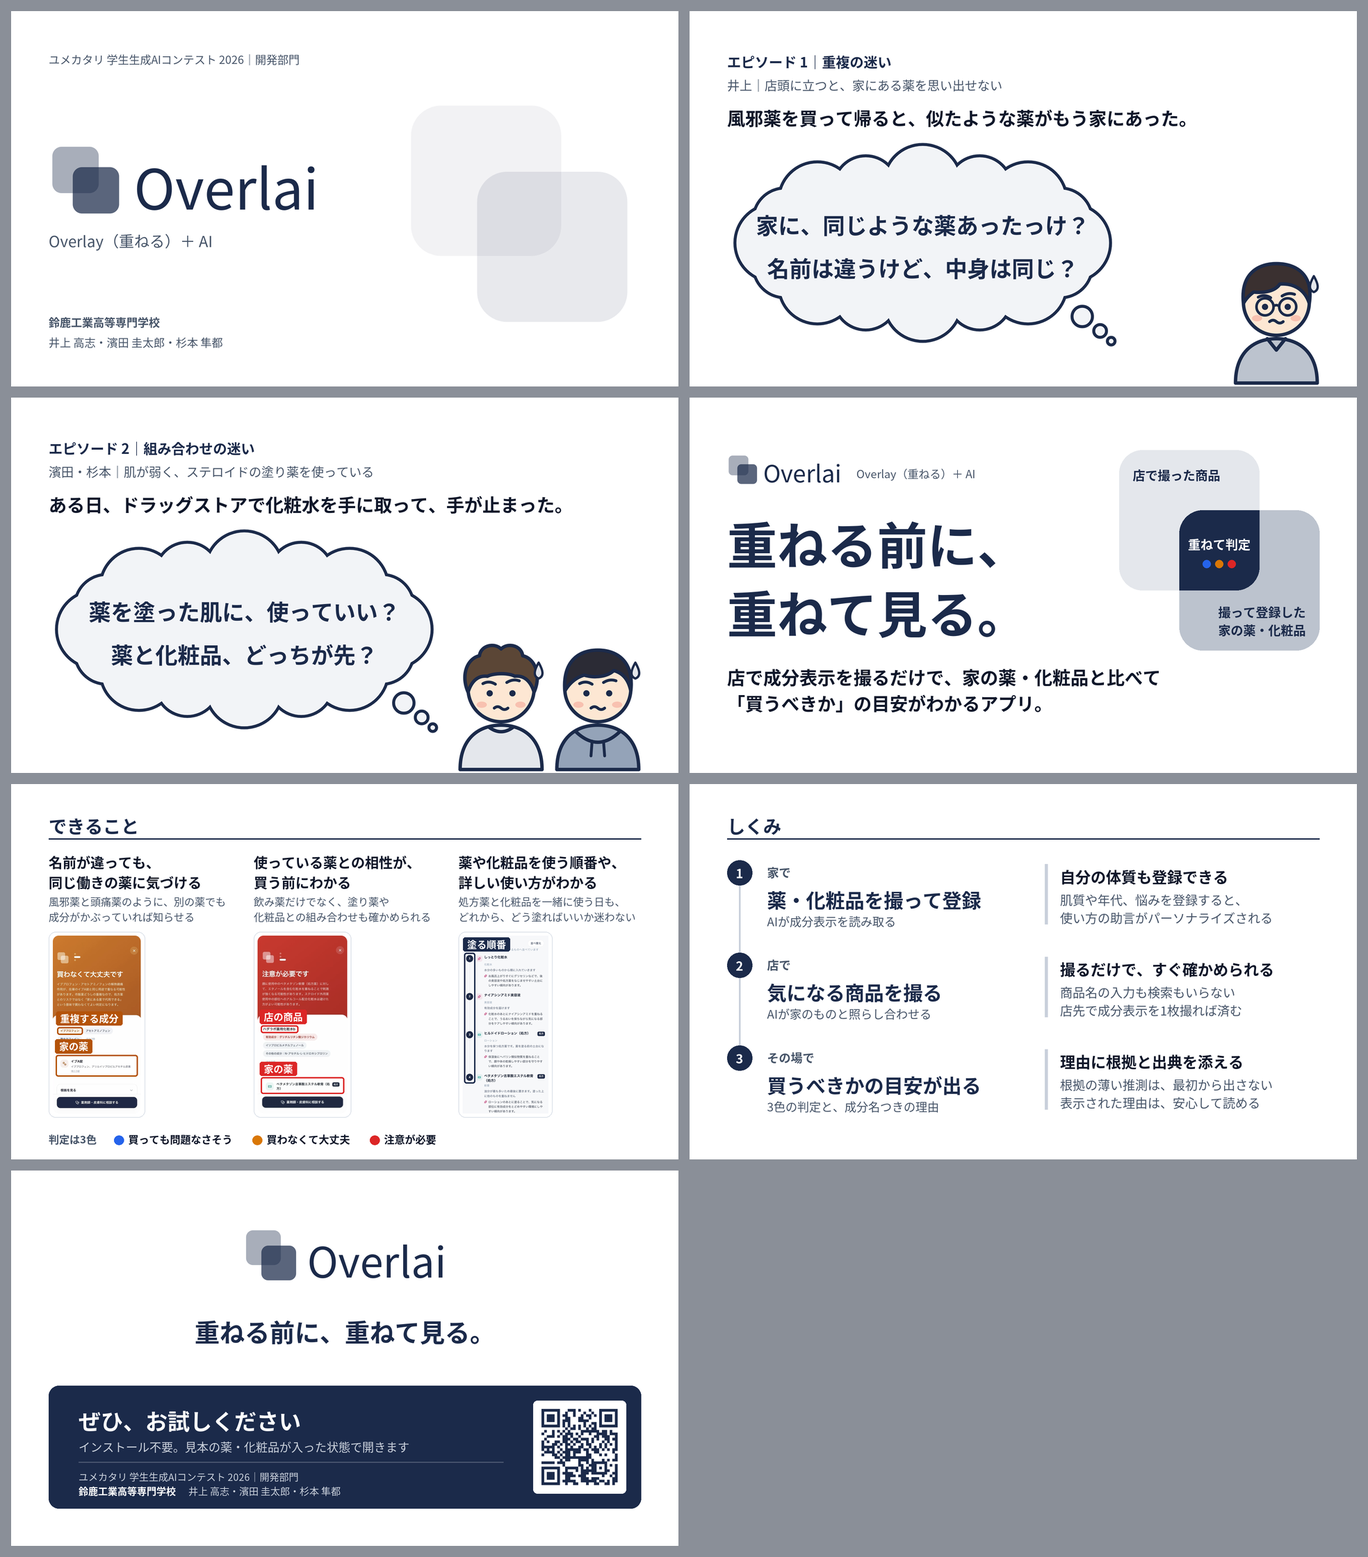
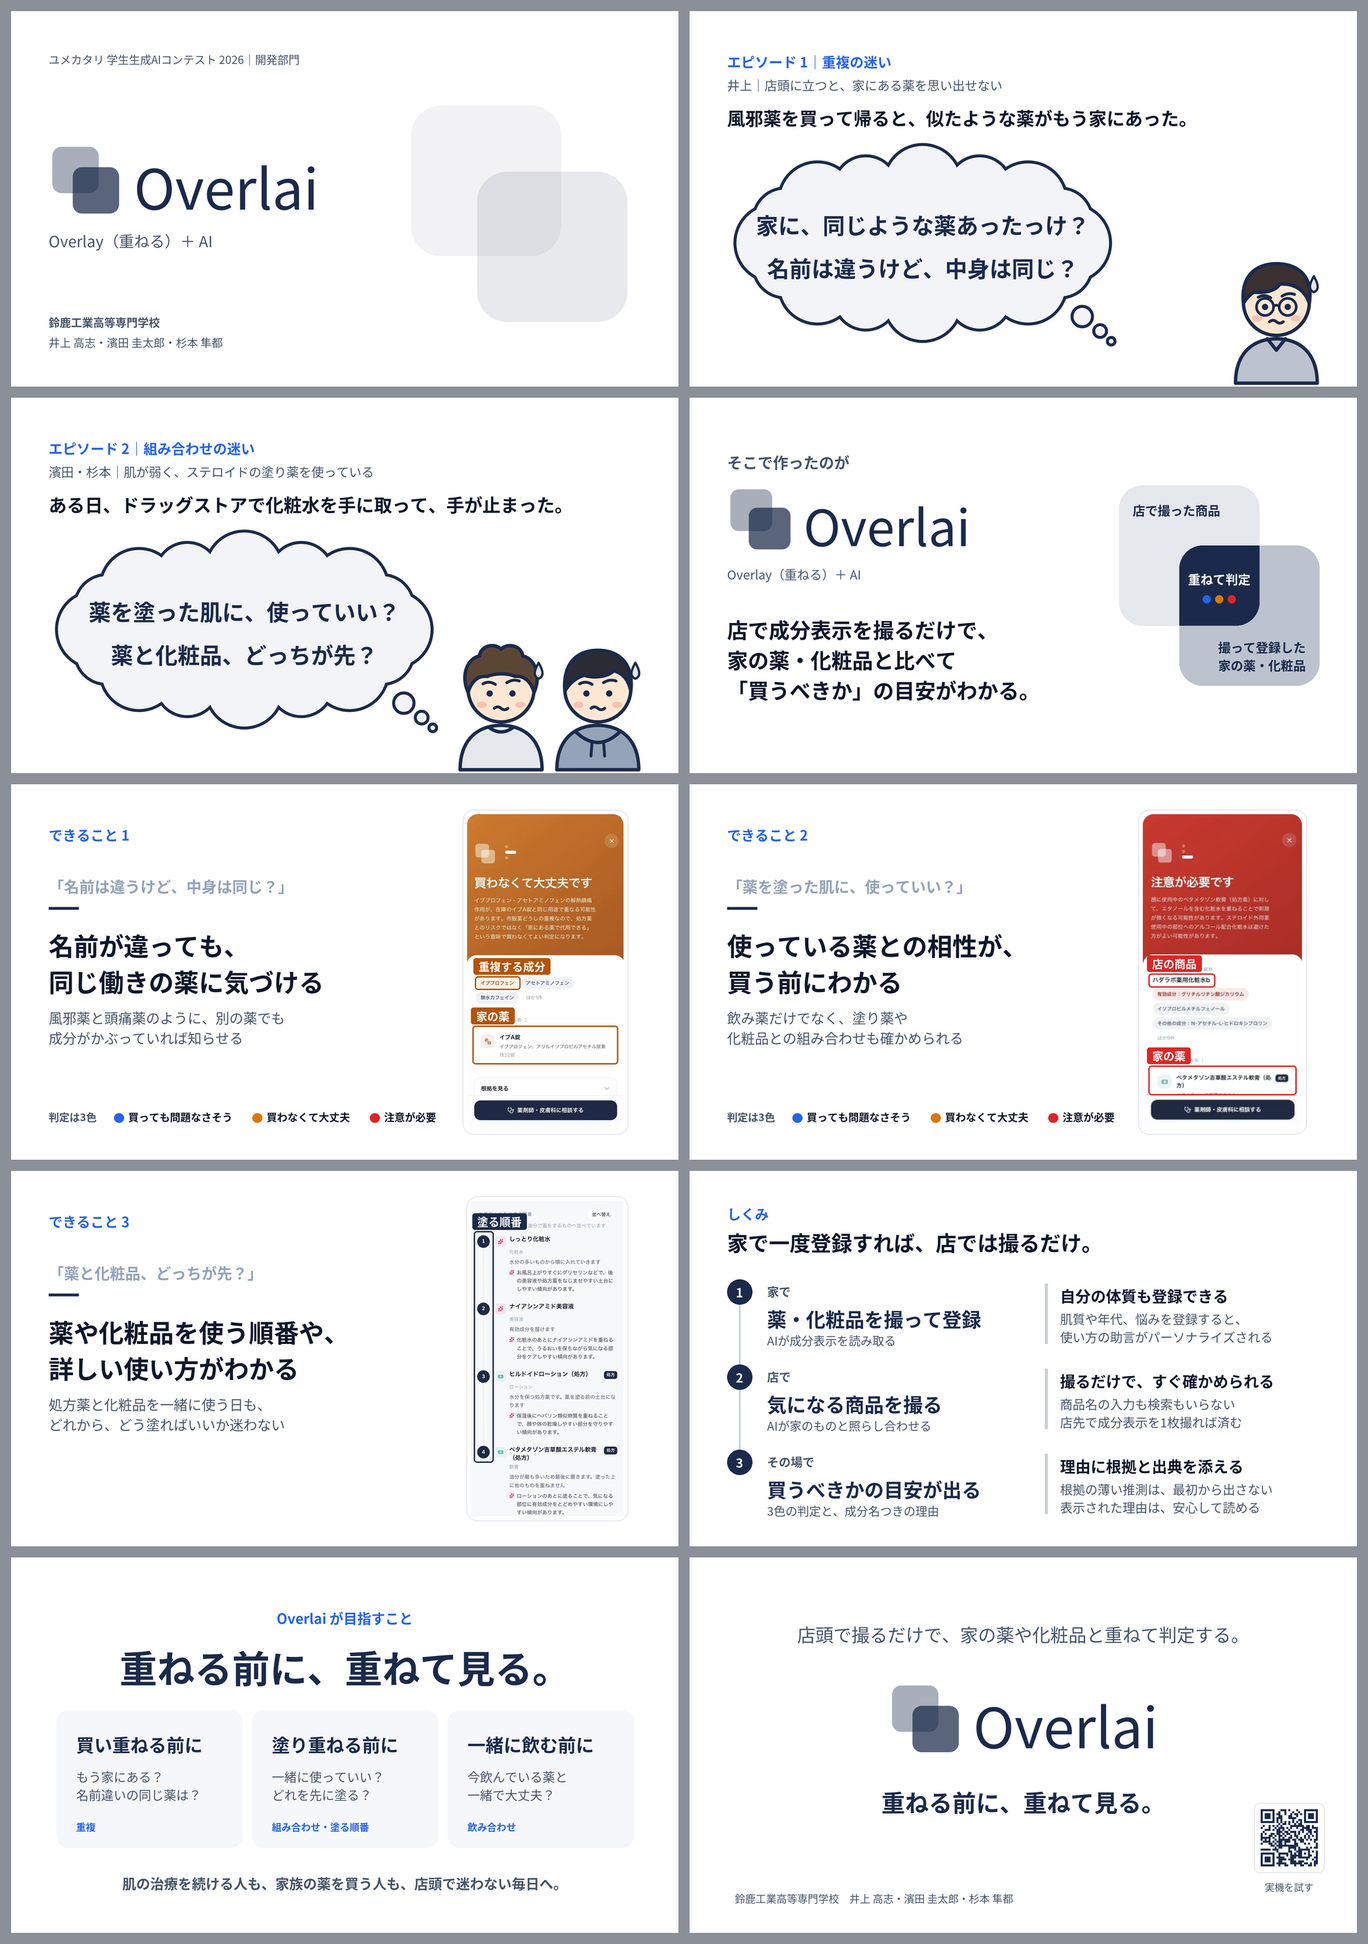
ピッチのスライドを、パネルの複製ではなくスライド向けの見せ方に直す
- できることを1枚ずつにし、エピソードの迷いから始めて実機の画面を大きく見せる
- アプリを出すスライドを「そこで作ったのが」から始める形にする
- 見出しは小さな青のラベルと大きな一文で組み、パネルの下線つき見出しをやめる
- しくみの後ろに、作り直す前の「目指すこと」と締めの2枚を戻す
- 10枚・台本約60秒（299字）

diff --git a/docs/ピッチ/build.py b/docs/ピッチ/build.py
@@ -1,12 +1,12 @@
 """本選1分ピッチのスライドを pptx とプレビューPNGに書き出す。
 
-流れと文言はブースパネル（docs/パネル/panel.tpl.html）と同じにし、その前に2つのエピソードを置く。
-  表紙 → エピソード1（重複）→ エピソード2（組み合わせ）→ アプリの一文と重なりの図 → できること → しくみ → 締め
+文言はブースパネル（docs/パネル/panel.tpl.html）と同じにし、見せ方はスライド向けに組む（1枚に1つのこと）。
+  表紙 → エピソード1（重複）→ エピソード2（組み合わせ）→ Overlai → できること×3 → しくみ → 目指すこと → 締め
 エピソードの順は、パネルの「できること」の順（重複 → 組み合わせ → 順番）に合わせる。
+できることの各スライドは、エピソードで浮かんだ迷いから始めて、その答えとして実機の画面を大きく見せる。
+目指すこと・締めは、作り直す前の版の2枚を戻したもの（ユーザー判断）。
 
-パネルで決めたことを、ここでも守る。
-- 色は紺と灰色で組む。判定の3色（青・黄・赤）は凡例と実機の画面の中にだけ出す
-- 塗りつぶした紺は「重なり」の図と、最後の「お試しください」の帯の2か所に絞る
+パネルで決めたことのうち、ここでも守るもの。
 - 説明は使う人にとってうれしいことを書く。開発者向けの補足は載せない
 - しくみは「やること」が主役で、「うれしいこと」はその横にぶら下げる（一回り小さく、縦線を付ける）
 - 実機の画面には、どこを見ればいいかの囲みを付ける（位置はパネルと同じ割合）
@@ -45,6 +45,7 @@ MIN_PT = 14  # 投影で読める下限
 # パネルと同じ色
 NAVY, INK, MUTED, PALE, LINE, MIST, WHITE = '1B2A4A', '0F172A', '475569', 'C9D0DB', 'D9DFE7', 'F2F4F7', 'FFFFFF'
 BLUE, AMBER, RED = '2563EB', 'D97706', 'DC2626'
+FAINT, CANVAS = '94A3B8', 'F5F7FA'
 SQ_A, SQ_B = 'E4E7EC', 'BCC3CE'  # 重なりの図の二つの四角
 
 SLOGAN = '重ねる前に、重ねて見る。'
@@ -101,36 +102,36 @@ def brand(x, y, size, color=NAVY):
         s * 1.02 + width_of('Overlai', size)
 
 
-def heading(title):
-    """段落見出し。パネルの h2 と同じく、下に紺の線を引く"""
-    return [text(X0, 0.5, 6, line_h(26), title, 26, NAVY, bold=True),
-            rect(X0, 1.08, X1 - X0, 0.022, NAVY, shape='rect')]
+def label(s, y=0.75, align='left'):
+    """スライドの左上（または中央）に置く小さな見出し"""
+    return text(X0 if align == 'left' else 0, y, 8 if align == 'left' else W, line_h(20), s, 20, BLUE, bold=True, align=align)
 
 
 def phone(path, x, y, h, rings=(), sig=NAVY):
     """実機の画面を白い枠に入れ、見てほしい所を囲む。rings は (left, top, width, height, 札) を画像に対する割合で"""
     im = image(path, x, y, h=h)
-    p = 0.08
-    out = [rect(x - p, y - p, im['w'] + 2 * p, h + 2 * p, WHITE, radius=0.14, line=LINE), im]
+    p = 0.09
+    out = [rect(x - p, y - p, im['w'] + 2 * p, h + 2 * p, WHITE, radius=0.22, line=LINE), im]
     for l, t, w, hh, label in rings:
         rx, ry, rw, rh = x + im['w'] * l, y + h * t, im['w'] * w, h * hh
-        out.append(rect(rx, ry, rw, rh, None, radius=0.05, line=sig, line_w=1.75))
-        tw = width_of(label, 14, True) + 0.16
-        out.append(rect(rx - 0.02, ry - 0.31, tw, 0.28, sig, radius=0.04, label=label, size=14, color=WHITE))
+        out.append(rect(rx, ry, rw, rh, None, radius=0.06, line=sig, line_w=2.25))
+        tw = width_of(label, 16, True) + 0.2
+        out.append(rect(rx - 0.03, ry - 0.36, tw, 0.33, sig, radius=0.05, label=label, size=16, color=WHITE))
     return out, im['w']
 
 
 # ── スライド ────────────────────────────────────────
 SLIDES = []
+TEAM = '井上 高志・濱田 圭太郎・杉本 隼都'
 
-# 0. 表紙（スローガンは、アプリを出す4枚目まで取っておく）
+# 0. 表紙（スローガンは、目指すことと締めまで取っておく）
 SLIDES.append(dict(notes='鈴鹿高専の、Overlaiです。', items=[
     image('logo-faint.png', 7.75, 1.05, h=5.4),
     text(X0, 0.75, 9, line_h(16), 'ユメカタリ 学生生成AIコンテスト 2026｜開発部門', 16, MUTED),
     *brand(X0, 2.45, 80)[0],
     text(X0, 4.3, 8, line_h(22), 'Overlay（重ねる）＋ AI', 22, MUTED),
     text(X0, 6.0, 8, line_h(16), '鈴鹿工業高等専門学校', 16, MUTED, bold=True),
-    text(X0, 6.4, 8, line_h(16), '井上 高志・濱田 圭太郎・杉本 隼都', 16, MUTED),
+    text(X0, 6.4, 8, line_h(16), TEAM, 16, MUTED),
 ]))
 
 
@@ -142,7 +143,7 @@ def episode(no, kind, who, people, scene, doubts):
     ppl = image(people, 0, 0, h=2.75)
     ppl['x'], ppl['y'] = X1 + 0.3 - ppl['w'], H - ppl['h']
     out = [
-        text(X0, 0.75, 9, line_h(20), f'エピソード {no}｜{kind}', 20, NAVY, bold=True),
+        label(f'エピソード {no}｜{kind}'),
         text(X0, 1.25, 11.5, line_h(18), who, 18, MUTED),
         text(X0, 1.8, 11.8, line_h(26), scene, 26, INK, bold=True),
         cl, ppl,
@@ -152,14 +153,14 @@ def episode(no, kind, who, people, scene, doubts):
     return out
 
 
-# 1. エピソード1：重複（→ できること①）
+# 1. エピソード1：重複（→ できること1）
 SLIDES.append(dict(notes='井上は、風邪薬を買って帰ったら、似た薬がもう家にありました。', items=episode(
     1, '重複の迷い', '井上｜店頭に立つと、家にある薬を思い出せない', 'people-1.png',
     '風邪薬を買って帰ると、似たような薬がもう家にあった。',
     ['家に、同じような薬あったっけ？', '名前は違うけど、中身は同じ？'],
 )))
 
-# 2. エピソード2：組み合わせ（→ できること②③）
+# 2. エピソード2：組み合わせ（→ できること2・3）
 SLIDES.append(dict(notes=(
     '濱田と杉本は、ステロイドの塗り薬を使っています。化粧水を手に取ったとき、'
     '使っていいのか、どっちが先か、迷いました。'
@@ -170,7 +171,7 @@ SLIDES.append(dict(notes=(
 )))
 
 
-# 3. アプリの一文（パネルの見出しと同じ）
+# 3. Overlai（アプリの一文と、重なりの図）
 def venn(x, y, s):
     """ロゴと同じ二つの四角を重ね、重なった所が判定になることを図で見せる"""
     a, off, ov, r = 0.7 * s, 0.3 * s, 0.4 * s, 0.117 * s
@@ -192,21 +193,19 @@ def venn(x, y, s):
     return out
 
 
-TOP = 1.05
-br, bw = brand(X0, TOP, 34)
 SLIDES.append(dict(notes=(
-    'どちらも、家の薬と見比べられれば迷わずに済みます。そこで作ったのがOverlaiです。'
+    'どちらも、店では家の薬と見比べられません。そこで作ったのがOverlaiです。'
     '店で成分表示を撮るだけで、買うべきかの目安がわかります。'
 ), items=[
-    *br,
-    text(X0 + bw + 0.3, TOP + 34 / 72 * 1.5 * 0.5 - line_h(16) / 2 + 0.06, 4, line_h(16), 'Overlay（重ねる）＋ AI', 16, MUTED),
-    text(X0, TOP + 0.95, 7.6, line_h(72, 0.95, 2), '重ねる前に、\n重ねて見る。', 72, NAVY, bold=True, spacing=0.95),
-    text(X0, TOP + 4.2, 11.5, line_h(26, 1.0, 2), '店で成分表示を撮るだけで、家の薬・化粧品と比べて\n「買うべきか」の目安がわかるアプリ。', 26, INK, bold=True),
-    *venn(X1 - 4.0, TOP, 4.0),
+    text(X0, 1.0, 6, line_h(22), 'そこで作ったのが', 22, MUTED, bold=True),
+    *brand(X0, 1.6, 72)[0],
+    text(X0, 3.3, 6, line_h(18), 'Overlay（重ねる）＋ AI', 18, MUTED),
+    text(X0, 4.25, 7.6, line_h(30, 1.0, 3), '店で成分表示を撮るだけで、\n家の薬・化粧品と比べて\n「買うべきか」の目安がわかる。', 30, INK, bold=True),
+    *venn(X1 - 4.0, 1.75, 4.0),
 ]))
 
 
-# 4. できること（パネルと同じ3列。画面の囲みもパネルと同じ位置）
+# 4〜6. できること（1枚に1つ。エピソードの迷いから始め、答えを実機の画面で見せる）
 def legend(x, y):
     """3色の意味。アプリの判定の見出しと同じ言葉を使う"""
     out = [text(x, y, 1.6, line_h(15), '判定は3色', 15, MUTED, bold=True)]
@@ -218,30 +217,34 @@ def legend(x, y):
     return out
 
 
-GAP = 0.45
-COL = (X1 - X0 - 2 * GAP) / 3
 CASES = [
-    ('名前が違っても、\n同じ働きの薬に気づける', '風邪薬と頭痛薬のように、別の薬でも\n成分がかぶっていれば知らせる',
-     'yellow-real.png', 'B45309', [(0.05, 0.513, 0.29, 0.043, '重複する成分'), (0.035, 0.67, 0.93, 0.122, '家の薬')]),
-    ('使っている薬との相性が、\n買う前にわかる', '飲み薬だけでなく、塗り薬や\n化粧品との組み合わせも確かめられる',
-     'red-real.png', RED, [(0.035, 0.504, 0.42, 0.044, '店の商品'), (0.035, 0.796, 0.93, 0.094, '家の薬')]),
-    ('薬や化粧品を使う順番や、\n詳しい使い方がわかる', '処方薬と化粧品を一緒に使う日も、\nどれから、どう塗ればいいか迷わない',
-     'routine-crop.jpg', NAVY, [(0.018, 0.096, 0.13, 0.734, '塗る順番')]),
+    ('名前は違うけど、中身は同じ？', '名前が違っても、\n同じ働きの薬に気づける', '風邪薬と頭痛薬のように、別の薬でも\n成分がかぶっていれば知らせる',
+     'yellow-real.png', 'B45309', [(0.05, 0.513, 0.29, 0.043, '重複する成分'), (0.035, 0.67, 0.93, 0.122, '家の薬')],
+     '名前が違っても、同じ働きの薬に気づけます。'),
+    ('薬を塗った肌に、使っていい？', '使っている薬との相性が、\n買う前にわかる', '飲み薬だけでなく、塗り薬や\n化粧品との組み合わせも確かめられる',
+     'red-real.png', RED, [(0.035, 0.504, 0.42, 0.044, '店の商品'), (0.035, 0.796, 0.93, 0.094, '家の薬')],
+     '使っている薬との相性も、買う前にわかります。'),
+    ('薬と化粧品、どっちが先？', '薬や化粧品を使う順番や、\n詳しい使い方がわかる', '処方薬と化粧品を一緒に使う日も、\nどれから、どう塗ればいいか迷わない',
+     'routine-crop.jpg', NAVY, [(0.018, 0.096, 0.13, 0.734, '塗る順番')],
+     '塗る順番まで案内します。'),
 ]
-items = heading('できること')
-for i, (h3, sub, shot, sig, rings) in enumerate(CASES):
-    x = X0 + i * (COL + GAP)
-    items += [text(x, 1.3, COL, line_h(20, 1.0, 2), h3, 20, INK, bold=True),
-              text(x, 2.15, COL, line_h(15, 1.0, 2), sub, 15, MUTED)]
-    items += phone(shot, x + 0.08, 3.03, 3.55, rings, sig)[0]
-items += legend(X0, 6.9)
-SLIDES.append(dict(notes=(
-    '名前が違っても同じ働きの薬に気づけて、使っている薬との相性も買う前にわかります。'
-    '塗る順番まで案内します。'
-), items=items))
+PH = 6.3  # 画面の高さ
+for i, (doubt, h3, sub, shot, sig, rings, note) in enumerate(CASES):
+    iw = image(shot, 0, 0, h=PH)['w']
+    items = [
+        label(f'できること {i + 1}'),
+        text(X0, 1.75, 7.5, line_h(22), f'「{doubt}」', 22, FAINT, bold=True),
+        rect(X0, 2.45, 0.6, 0.05, NAVY, shape='rect'),
+        text(X0, 2.75, 7.5, line_h(36, 1.0, 2), h3, 36, INK, bold=True),
+        text(X0, 4.4, 7.5, line_h(20, 1.0, 2), sub, 20, MUTED),
+        *phone(shot, X1 - 0.35 - iw, 0.6, PH, rings, sig)[0],
+    ]
+    if shot != 'routine-crop.jpg':  # 判定の画面にだけ、3色の意味を添える
+        items += legend(X0, 6.45)
+    SLIDES.append(dict(notes=note, items=items))
 
 
-# 5. しくみ（やることが主役。うれしいことは一回り小さくし、縦線でぶら下げる）
+# 7. しくみ（やることが主役。うれしいことは一回り小さくし、縦線でぶら下げる）
 STEPS = [
     ('家で', '薬・化粧品を撮って登録', 'AIが成分表示を読み取る',
      '自分の体質も登録できる', '肌質や年代、悩みを登録すると、\n使い方の助言がパーソナライズされる'),
@@ -250,9 +253,9 @@ STEPS = [
     ('その場で', '買うべきかの目安が出る', '3色の判定と、成分名つきの理由',
      '理由に根拠と出典を添える', '根拠の薄い推測は、最初から出さない\n表示された理由は、安心して読める'),
 ]
-ROW0, PITCH, DOT = 1.5, 1.85, 0.5
+ROW0, PITCH, DOT = 2.15, 1.7, 0.5
 BX = 7.1  # うれしいことの列
-items = heading('しくみ')
+items = [label('しくみ', y=0.6), text(X0, 1.05, 11, line_h(30), '家で一度登録すれば、店では撮るだけ。', 30, INK, bold=True)]
 items.append(rect(X0 + DOT / 2 - 0.0125, ROW0 + 0.02 + DOT / 2, 0.025, PITCH * 2, PALE, shape='rect'))  # 番号をつなぐ線
 for i, (when, act, ai, ph, pp) in enumerate(STEPS):
     y = ROW0 + i * PITCH
@@ -266,29 +269,40 @@ for i, (when, act, ai, ph, pp) in enumerate(STEPS):
         text(BX + 0.3, y + 0.06, X1 - BX - 0.3, line_h(22), ph, 22, INK, bold=True),
         text(BX + 0.3, y + 0.58, X1 - BX - 0.3, line_h(18, 1.0, 2), pp, 18, MUTED),
     ]
-SLIDES.append(dict(notes='家で一度登録すれば、店では撮るだけです。根拠の薄い推測は出さず、理由には出典を添えます。', items=items))
+SLIDES.append(dict(notes='家で一度登録すれば、店では撮るだけ。理由には出典を添えます。', items=items))
 
 
-# 6. 締め（パネルの最後の帯と同じ）
-br, bw = brand(0, 1.0, 60)
+# 8. 目指すこと（作り直す前の版の1枚。店頭の判定だけでなく、買う・塗る・飲むの全部で「重ねる前に確かめる」）
+def pillar(x, head, sub, tag):
+    return [
+        rect(x, 3.05, 3.72, 2.75, CANVAS, radius=0.25),
+        text(x + 0.4, 3.4, 3.1, line_h(26), head, 26, NAVY, bold=True),
+        text(x + 0.4, 4.15, 3.1, line_h(18, 1.0, 2), sub, 18, MUTED),
+        text(x + 0.4, 5.2, 3.1, line_h(14), tag, 14, BLUE, bold=True),
+    ]
+
+
+SLIDES.append(dict(notes='買い重ねる前に。塗り重ねる前に。一緒に飲む前に。', items=[
+    label('Overlai が目指すこと', y=0.95, align='center'),
+    text(0, 1.5, W, line_h(54), SLOGAN, 54, NAVY, bold=True, align='center'),
+    *pillar(0.9, '買い重ねる前に', 'もう家にある？\n名前違いの同じ薬は？', '重複'),
+    *pillar(4.81, '塗り重ねる前に', '一緒に使っていい？\nどれを先に塗る？', '組み合わせ・塗る順番'),
+    *pillar(8.72, '一緒に飲む前に', '今飲んでいる薬と\n一緒で大丈夫？', '飲み合わせ'),
+    text(0, 6.25, W, line_h(20), '肌の治療を続ける人も、家族の薬を買う人も、店頭で迷わない毎日へ。', 20, MUTED, bold=True, align='center'),
+]))
+
+# 9. 締め（作り直す前の版の1枚）
+br, bw = brand(0, 2.3, 80)
 for it in br:
     it['x'] += (W - bw) / 2
-BAND_Y, BAND_H, QR = 4.3, 2.45, 1.85
-qx = X1 - 0.3 - QR
-school = '鈴鹿工業高等専門学校'
-SLIDES.append(dict(notes=SLOGAN + 'ぜひ、お試しください。', items=[
+SLIDES.append(dict(notes='Overlai。' + SLOGAN, items=[
+    text(0, 1.2, W, line_h(26), '店頭で撮るだけで、家の薬や化粧品と重ねて判定する。', 26, MUTED, align='center'),
     *br,
-    text(0, 2.75, W, line_h(36), SLOGAN, 36, NAVY, bold=True, align='center'),
-    rect(X0, BAND_Y, X1 - X0, BAND_H, NAVY, radius=0.2),
-    text(X0 + 0.6, BAND_Y + 0.28, 8, line_h(32), 'ぜひ、お試しください', 32, WHITE, bold=True),
-    text(X0 + 0.6, BAND_Y + 1.0, 8.6, line_h(17), 'インストール不要。見本の薬・化粧品が入った状態で開きます', 17, PALE),
-    rect(X0 + 0.6, BAND_Y + 1.52, qx - 0.6 - X0 - 0.6, 0.012, '4D5972', shape='rect'),
-    text(X0 + 0.6, BAND_Y + 1.64, 8, line_h(14), 'ユメカタリ 学生生成AIコンテスト 2026｜開発部門', 14, PALE),
-    text(X0 + 0.6, BAND_Y + 1.64 + line_h(14), width_of(school, 14, True) + 0.1, line_h(14), school, 14, WHITE, bold=True),
-    text(X0 + 0.6 + width_of(school, 14, True) + 0.25, BAND_Y + 1.64 + line_h(14), 5, line_h(14),
-         '井上 高志・濱田 圭太郎・杉本 隼都', 14, PALE),
-    rect(qx, BAND_Y + (BAND_H - QR) / 2, QR, QR, WHITE, radius=0.08),
-    image('qr.png', qx + 0.06, BAND_Y + (BAND_H - QR) / 2 + 0.06, h=QR - 0.12),
+    text(0, 4.45, W, line_h(34), SLOGAN, 34, NAVY, bold=True, align='center'),
+    text(0.9, 6.62, 9, line_h(15), '鈴鹿工業高等専門学校　' + TEAM, 15, MUTED),
+    rect(11.28, 4.9, 1.4, 1.4, WHITE, radius=0.12, line=LINE),
+    image('qr.png', 11.33, 4.95, h=1.3),
+    text(10.98, 6.4, 2.0, line_h(14), '実機を試す', 14, MUTED, align='center'),
 ]))
 
 

diff --git a/docs/STATUS.md b/docs/STATUS.md
@@ -150,7 +150,7 @@ GEMINI_API_KEY     → Google Gemini (gemini-3.5-flash / gemini-3.6-flash)
 
 9/29 に運営から連絡：当日は**1分ピッチ**で、投影は**オフライン**（データをPCに入れて映す）。ブースには来場者の投票もある。
 
-- [ ] 1分ピッチの投影資料 — 叩き台は `docs/ピッチ/`（`build.py` で pptx を生成・7枚・台本は各スライドのノート・約59秒）。流れと文言はブースパネルと同じにし、前に2つのエピソード（井上の重複 → 濱田・杉本の組み合わせ）を置く。Googleスライドで仕上げ、pptx と PDF で送る。動画・GIFは入れない
+- [ ] 1分ピッチの投影資料 — 叩き台は `docs/ピッチ/`（`build.py` で pptx を生成・10枚・台本は各スライドのノート・約60秒）。文言はブースパネルと同じで、見せ方はスライド向け（できることは1枚ずつ）。前に2つのエピソード（井上の重複 → 濱田・杉本の組み合わせ）、後ろに「目指すこと」と締めを置く。Googleスライドで仕上げ、pptx と PDF で送る。動画・GIFは入れない
 - [ ] ブースのパネル — `docs/パネル/Overlai_ブースパネル.pdf`（A4縦で作り、運営がA1に拡大。`build.sh` で書き出し）。PDF を送る
 
 **当日の準備（Issue にしないもの）**
